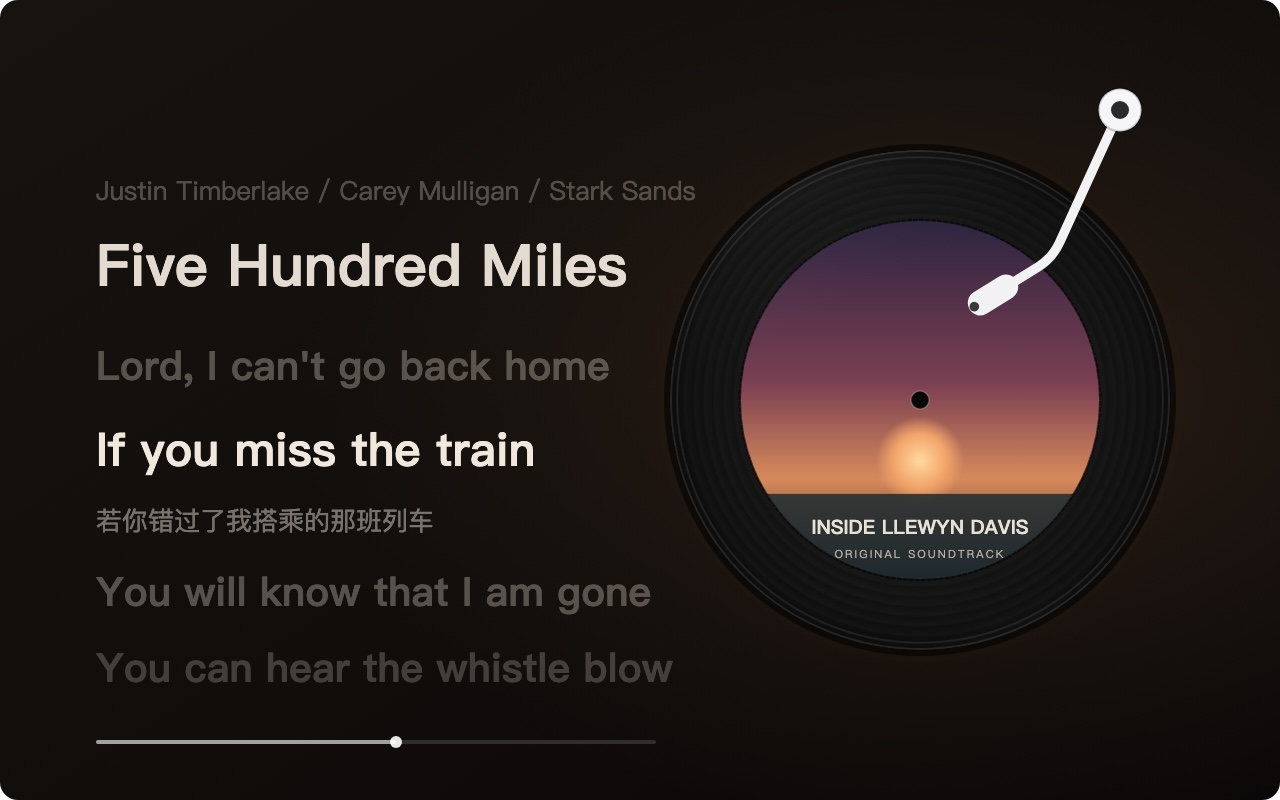
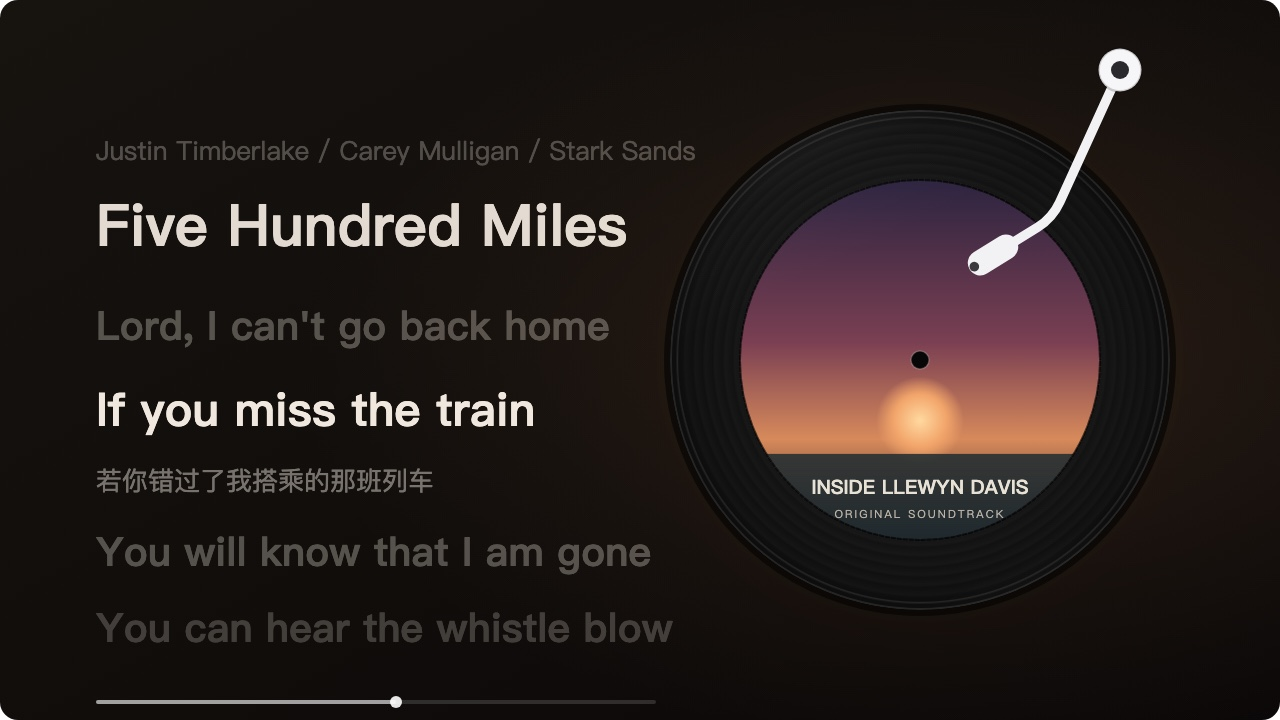
1.3.2: 补充 preview 清单字段与 16:9 市场封面

diff --git a/README.md b/README.md
@@ -43,6 +43,12 @@
 
 首次启用时 Folia 会弹出确认窗口（列出内容指纹），确认后即可使用。
 
+也可以在 Folia 的模组面板里直接把本仓库的 zip 拖进去安装。
+
+## 模组市场
+
+本模组已提交至 [folium-compound](https://github.com/chthollyphile/folium-compound) 模组市场收录流程（`模组提交` issue）。通过审查并签名后，可在 Folia 内置模组市场搜索「vinyl-disc / 黑胶唱片」安装，安装后显示官方签名标识。
+
 ## 实现说明
 
 - 通过公开注册表 `folium.registries.visualizers` 注册一个动画模式（`hostLayers: { background: true, subtitles: false }`，歌词文本由模组自绘，避免与宿主字幕重复）。
